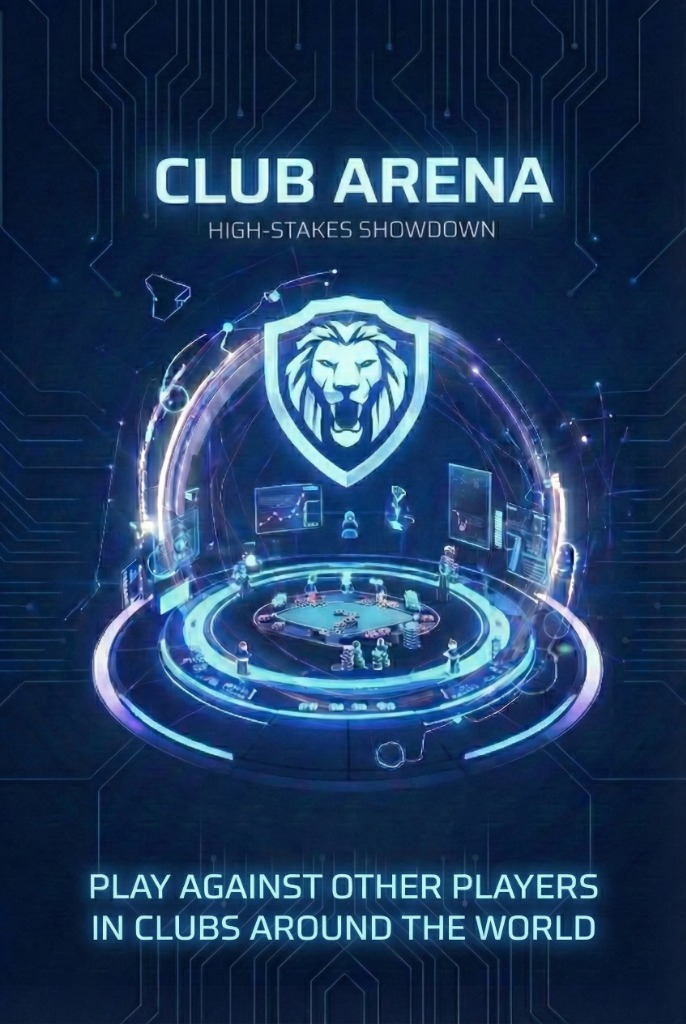
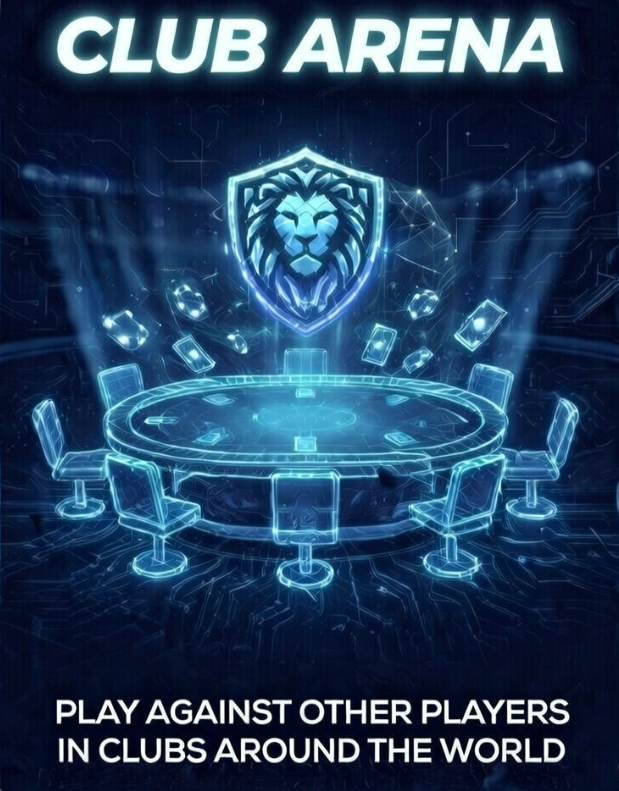
feat: new club arena card with lion shield design

diff --git a/src/orbs/manifest/registry.ts b/src/orbs/manifest/registry.ts
@@ -16,7 +16,7 @@ export interface OrbConfig {
 export const POKER_IQ_ORBS: OrbConfig[] = [
     { id: 'social-media', color: '#ff4d4d', label: 'Social Media', gradient: ['#ff6b6b', '#c73d3d'], imageUrl: '/images/social_media_card_art.png', description: 'STAY CONNECTED TO THE POKER WORLD — SHARE YOUR WINS, FOLLOW YOUR HEROES' },
     { id: 'diamond-arena', color: '#ffee00', label: 'Diamond Arena', gradient: ['#fff176', '#c9b000'], imageUrl: '/cards/diamond-arena.jpg', description: 'HIGH STAKES ACTION — PLAY FOR DIAMONDS AGAINST ELITE COMPETITION' },
-    { id: 'club-arena', color: '#ff9900', label: 'Club Arena', gradient: ['#ffb347', '#cc7722'], imageUrl: '/cards/club-arena.jpg', description: 'JOIN PRIVATE CLUBS — COMPETE WITH PLAYERS FROM AROUND THE WORLD' },
+    { id: 'club-arena', color: '#ff9900', label: 'Club Arena', gradient: ['#ffb347', '#cc7722'], imageUrl: '/images/club_arena_card_art.png', description: 'JOIN PRIVATE CLUBS — COMPETE WITH PLAYERS FROM AROUND THE WORLD' },
     { id: 'training', color: '#00ff66', label: 'Training', gradient: ['#69f0ae', '#00c853'], imageUrl: '/cards/training.jpg', description: '100 GAMES TO MASTER — LEVEL UP YOUR POKER IQ ONE DRILL AT A TIME' },
     { id: 'news', color: '#ff6600', label: 'News', gradient: ['#ff8c42', '#e55812'], imageUrl: '/images/news_card_art.png', description: 'BREAKING POKER NEWS — TOURNAMENTS, DRAMA, AND LEGEND STORIES' },
     { id: 'diamond-arcade', color: '#9900ff', label: 'Diamond Arcade', gradient: ['#ce93d8', '#7b1fa2'], imageUrl: '/cards/diamond-arcade.jpg', description: 'ARCADE ACTION — WIN DIAMONDS IN FAST-PACED POKER CHALLENGES' },
